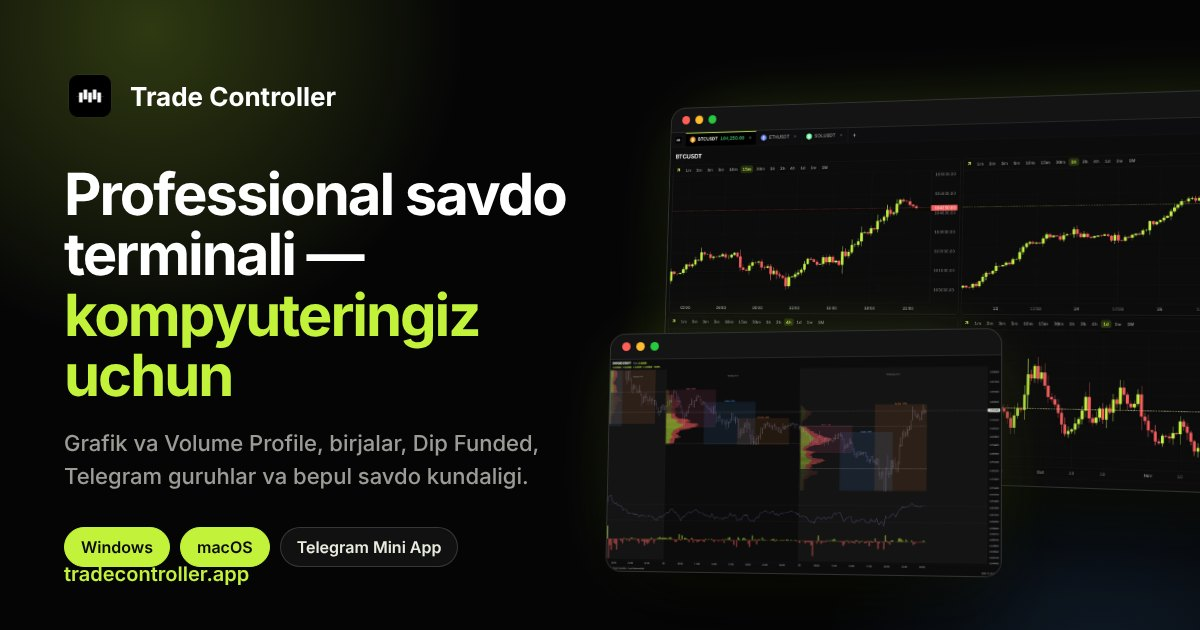
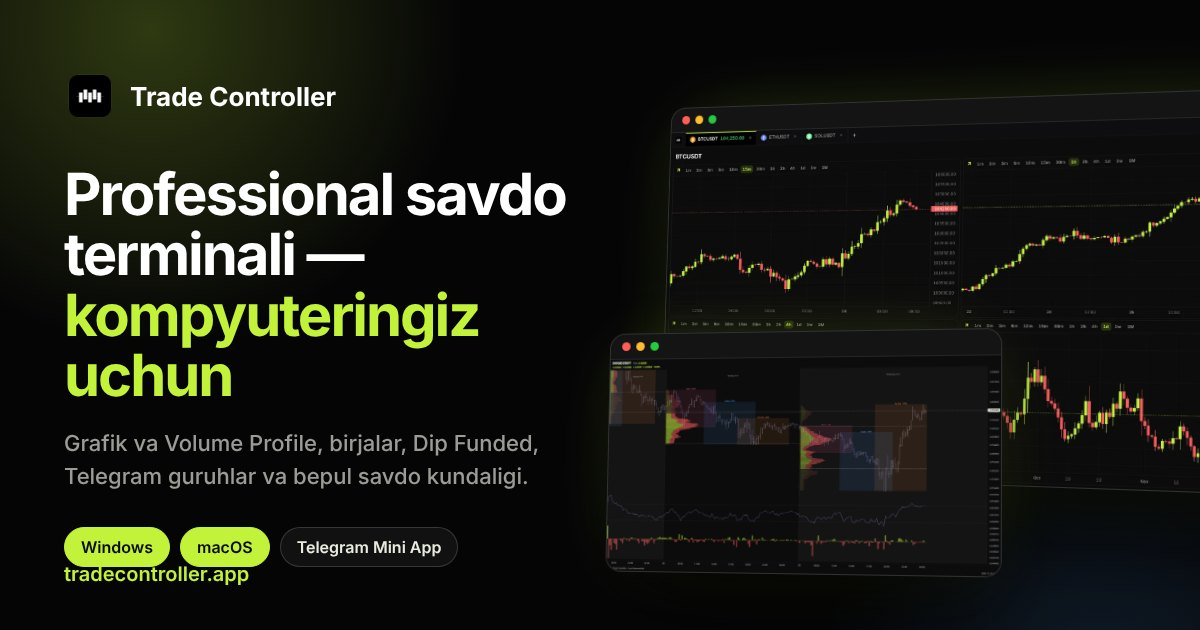
487p/q: bot /sitepost (admin) — News Trade'ga sayt e'loni; «Charts by TradingView» yozuvi olib tashlandi
Claude-Session: https://claude.ai/code/session_01L5NUTkWfmb7CHUXySzbLXX

diff --git a/webapp.html b/webapp.html
@@ -1453,7 +1453,7 @@ var LW={};
 var TFL=['1m','2m','3m','5m','10m','15m','30m','1h','2h','4h','1d','1w','1M'];
 function lwLoad(cb){if(window.LightweightCharts){cb();return}if(LW.ld){LW.ld.push(cb);return}LW.ld=[cb];var s=document.createElement('script');s.src='/lwc.js';
  s.onload=function(){var q=LW.ld||[];LW.ld=null;q.forEach(function(f){try{f()}catch(e){}})};document.head.appendChild(s)}
-function termSvg(i,g){return'<div id="tlw" style="height:'+(TER.H+TER.AX)+'px;position:relative"></div><div class="lwat">Charts by <a onclick="openLink(\'https://www.tradingview.com/\')">TradingView</a></div>'}
+function termSvg(i,g){return'<div id="tlw" style="height:'+(TER.H+TER.AX)+'px;position:relative"></div>'}
 function termBind(){var g=S.page;if(!document.getElementById('tlw'))return;lwLoad(function(){if(S.page===g&&document.getElementById('tlw'))lwMount(g)})}
 function termRedraw(){if(LW.g===S.page)lwLines(true)}
 function lwP2(n){return('0'+n).slice(-2)}
@@ -3001,7 +3001,7 @@ function rpUi(g){var el=LW.el;if(!el)return;var u=el.querySelector('.rpui');if(!
 var MC=null;
 function mcTfs(){var d=['15m','1h','4h','1d'];try{var v=JSON.parse(localStorage.getItem('tc_mc')||'null');if(Array.isArray(v)&&v.length==4&&v.every(function(x){return TFL.indexOf(x)>=0}))return v}catch(e){}return d}
 function mcOpen(){var g=LW.g;if(!g)return;mcClose();var T=mcTfs(),k=alKey(g),o=document.createElement('div');o.id='mcg';
- o.innerHTML='<div class="mch"><b>'+esc(k?k.s:'')+'</b><span onclick="mcClose()">✕</span></div><div class="mcw">'+T.map(function(tf,i){return'<div class="mcc"><div class="mct"><span onclick="mcGo('+i+')">↗</span>'+TFL.map(function(x){return'<i class="'+(x==tf?'on':'')+'" onclick="mcTf('+i+',\''+x+'\')">'+x+'</i>'}).join('')+'</div><div class="mcx" data-i="'+i+'"></div></div>'}).join('')+'</div><div class="lwat">Charts by <a onclick="openLink(\'https://www.tradingview.com/\')">TradingView</a></div>';
+ o.innerHTML='<div class="mch"><b>'+esc(k?k.s:'')+'</b><span onclick="mcClose()">✕</span></div><div class="mcw">'+T.map(function(tf,i){return'<div class="mcc"><div class="mct"><span onclick="mcGo('+i+')">↗</span>'+TFL.map(function(x){return'<i class="'+(x==tf?'on':'')+'" onclick="mcTf('+i+',\''+x+'\')">'+x+'</i>'}).join('')+'</div><div class="mcx" data-i="'+i+'"></div></div>'}).join('')+'</div>';
  document.body.appendChild(o);MC={g:g,T:T,C:[]};T.forEach(function(tf,i){mcMount(i)});MC.iv=setInterval(function(){if(!MC||S.page!==MC.g){mcClose();return}if(!document.hidden)MC.T.forEach(function(tf,i){mcLoad(i)})},15000)}
 function mcMount(i){var el=document.querySelector('#mcg .mcx[data-i="'+i+'"]');if(!el||!MC)return;if(MC.C[i]){try{MC.C[i].ch.remove()}catch(e){}}
  var ch=LightweightCharts.createChart(el,{autoSize:true,layout:{attributionLogo:false,background:{type:'solid',color:'rgba(0,0,0,0)'},textColor:'rgba(200,205,194,.62)',fontSize:10},

diff --git a/bot.py b/bot.py
@@ -11751,6 +11751,52 @@ async def cmd_delsig(update: Update, ctx: ContextTypes.DEFAULT_TYPE) -> None:
     await msg.reply_text(txt)
 
 
+_SITEPOST_TEXT = (
+    "🚀 <b>Trade Controller endi kompyuteringizda!</b>\n\n"
+    "Professional savdo terminali — Windows va macOS uchun <b>bepul</b> ilova:\n\n"
+    "📊 Grafik, Volume Profile va 75+ chizma asbobi\n"
+    "🌍 Tokyo / London / New York sessiyalari\n"
+    "💱 Binance, Bybit, Bitget, MEXC va boshqa birjalarda savdo\n"
+    "🏆 Dip Funded prop-hisoblari\n"
+    "🧪 Simulyator — virtual pul bilan mashq\n"
+    "👥 Telegram guruhlarni boshqarish\n"
+    "📒 Bepul savdo kundaligi\n\n"
+    "🌐 tradecontroller.app"
+)
+
+
+async def cmd_sitepost(update: Update, ctx: ContextTypes.DEFAULT_TYPE) -> None:
+    """487p: sayt/kompyuter ilovasi e'loni — rasm (landing/og.jpg) + matn + 3 tugma. Faqat super-admin.
+    `/sitepost` — avval faqat sizga namuna; `/sitepost go` — News Trade kanaliga (NEWS_CHANNEL_ID)."""
+    uid = update.effective_user.id
+    msg = update.effective_message
+    if not is_admin(uid):
+        return
+    kb = InlineKeyboardMarkup([
+        [InlineKeyboardButton("💻 Yuklab olish (Windows / macOS)", url="https://tradecontroller.app/#desktop")],
+        [InlineKeyboardButton("🌐 Saytga o'tish", url="https://tradecontroller.app/"),
+         InlineKeyboardButton("📱 Telegram Mini App", url=f"https://t.me/{BOT_USERNAME or ctx.bot.username}?startapp")],
+    ])
+    go = bool(ctx.args) and ctx.args[0].lower() == "go"
+    if go and not config.NEWS_CHANNEL_ID:
+        await msg.reply_text("NEWS_CHANNEL_ID sozlanmagan.")
+        return
+    target = config.NEWS_CHANNEL_ID if go else msg.chat_id
+    img = os.path.join(os.path.dirname(os.path.abspath(__file__)), "landing", "og.jpg")
+    try:
+        with open(img, "rb") as fh:
+            sent = await ctx.bot.send_photo(target, InputFile(fh, "trade-controller.jpg"), caption=_SITEPOST_TEXT,
+                                            parse_mode=ParseMode.HTML, reply_markup=kb)
+    except Exception as e:  # noqa: BLE001
+        log.warning("sitepost yuborilmadi", exc_info=True)
+        await msg.reply_text(f"Yuborilmadi: {e}")
+        return
+    if go:
+        await msg.reply_text(f"✅ Kanalga yuborildi (#{sent.message_id}).")
+    else:
+        await msg.reply_text("Bu namuna. Kanalga yuborish uchun: /sitepost go")
+
+
 async def cmd_repost(update: Update, ctx: ContextTypes.DEFAULT_TYPE) -> None:
     """383: /repost 1126 — bazada bor, lekin guruhga chiqmay qolgan ochiq signalni guruhga yuboradi
     (yangi signaldagi AYNI post: grafik, muallif, «Trade Controller orqali», tugmalar). Posti bor bo'lsa —
@@ -12449,6 +12495,7 @@ def main() -> None:
     app.add_handler(CommandHandler("richtest", cmd_richtest))
     app.add_handler(CommandHandler("delsig", cmd_delsig))
     app.add_handler(CommandHandler("repost", cmd_repost))
+    app.add_handler(CommandHandler("sitepost", cmd_sitepost))  # 487p
     app.add_handler(CommandHandler("emoji", cmd_emoji))
     app.add_handler(CommandHandler("tg_login", cmd_tg_login))
     app.add_handler(CommandHandler("tg_code", cmd_tg_code))

diff --git a/CLAUDE.md b/CLAUDE.md
@@ -8861,3 +8861,5 @@ Foydalanuvchi: "xavfsizlik tomonlarini ko'rib chiq keraksiz narsalarni va eski i
 - 487m: SEO. `landing_page` `?lang=uz|ru|en` bo'yicha serverda `<html lang>`, title, description, og/twitter teglari, canonical (`_SEO`, `_SITE`), kesh har til uchun alohida. Head'da hreflang (uz/ru/en/x-default), `robots` meta, keywords, JSON-LD (`_seo_jsonld`: Organization + WebSite + SoftwareApplication, narx 0), `window.__SEO` (JS til almashtirganda title/description shundan). Tasdiqlash meta-teglari env orqali: `GOOGLE_SITE_VERIFICATION`, `YANDEX_VERIFICATION`, `BING_SITE_VERIFICATION`. `/robots.txt` (tradecontroller.app — `/` ochiq, `/app`,`/api/`,`/desk`,`/site`,`/g/` yopiq, Sitemap; boshqa host — `Disallow: /`), `/sitemap.xml` (3 til, hreflang). `/site` va boshqa hostlarda `X-Robots-Tag: noindex`. Ulashish rasmi `landing/og.jpg` (1200×630), `/l/{name}.{webp|jpg}`.
 - 487n: 01-karta (Signal boshqaruvi) — premium Telegram kanal lentasi: kanal sarlavhasi (avatar + Telegram belgisi), «Yangi signal» kartasi (Kirish/TP/SL chiplari), TP1/TP2 xabarlari; emoji o'rniga sayt uslubidagi SVG ikonkalar (`.mi`, glow), foiz chiplari (`.pc`), ikonka «pop» animatsiyasi. `.illo.tgi` balandligi 236px.
 - 487o: landing fokusi — kompyuter ilovasi (botga emas). Hero: «Bot 24/7» pill olib tashlandi; sarlavha «Kompyuteringiz uchun professional savdo terminali.», asosiy tugma «Bepul yuklab olish» (`#hdl`: OS bo'yicha Windows/macOS fayli, reliz yo'q yoki telefon — `#desktop`), ikkinchi — «Imkoniyatlarni ko'rish». Header/menyu/yakuniy blokda asosiy tugma «Yuklab olish», Telegram — ikkinchi darajali «Telegram Mini App». Imkoniyatlar: 01 «Telegram guruhlarni boshqarish», 06 «Bepul savdo kundaligi». «Qanday ishlaydi»: yuklab olish → Telegram orqali kirish → birja/guruh ulash. FAQ: nima, nima uchun yaratilgan, imkoniyatlar, pullikmi, API xavfsizligi, kirish, Windows ogohlantirishi, telefonda. Bot haqida faqat telefon bo'limi va kirish FAQ'ida. `_SEO` va og.jpg ham ilovaga yo'naltirildi.
+- 487p: bot — `/sitepost` (faqat ADMIN_IDS): sayt/kompyuter ilovasi e'loni (`landing/og.jpg` + `_SITEPOST_TEXT` + tugmalar: Yuklab olish → tradecontroller.app/#desktop, Sayt, Telegram Mini App `t.me/<bot>?startapp`). `/sitepost` — namuna o'zingizga, `/sitepost go` — News Trade kanaliga (NEWS_CHANNEL_ID).
+- 487q: «Charts by TradingView» yozuvi (`.lwat`) terminal va multi-chart'dan olib tashlandi (foydalanuvchi talabi — hech qayerda bo'lmasin). Lightweight Charts'da `attributionLogo:false` avvaldan. Landing skrinshotlari (s_mc, s_ph) va og.jpg qayta olindi.
